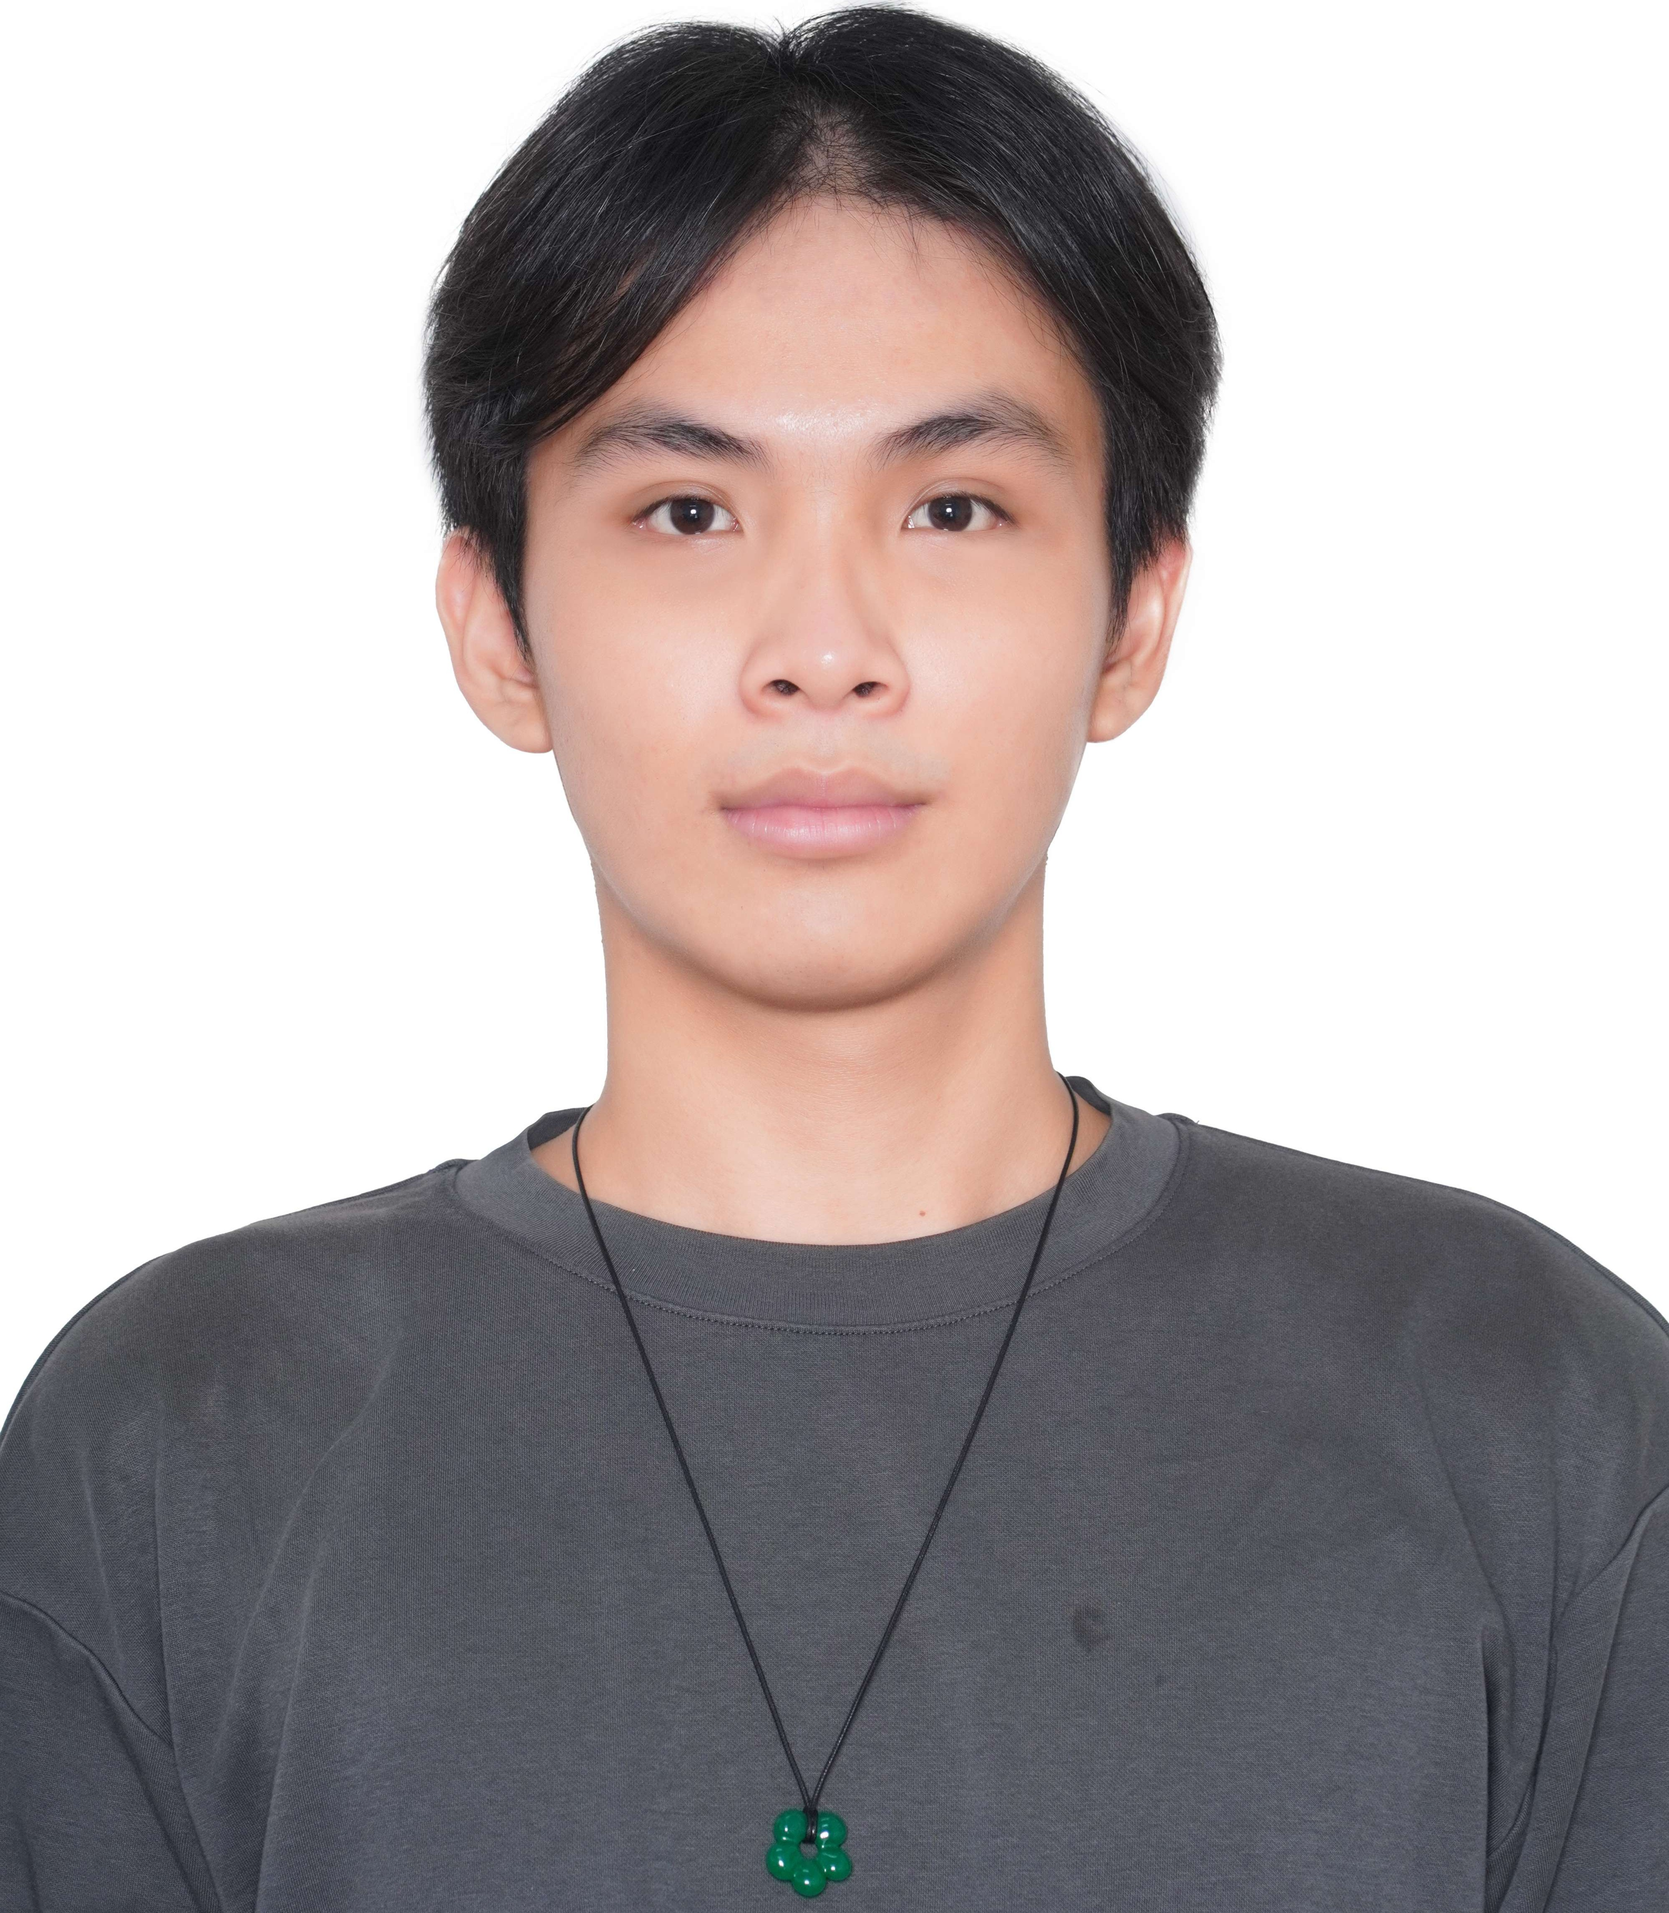
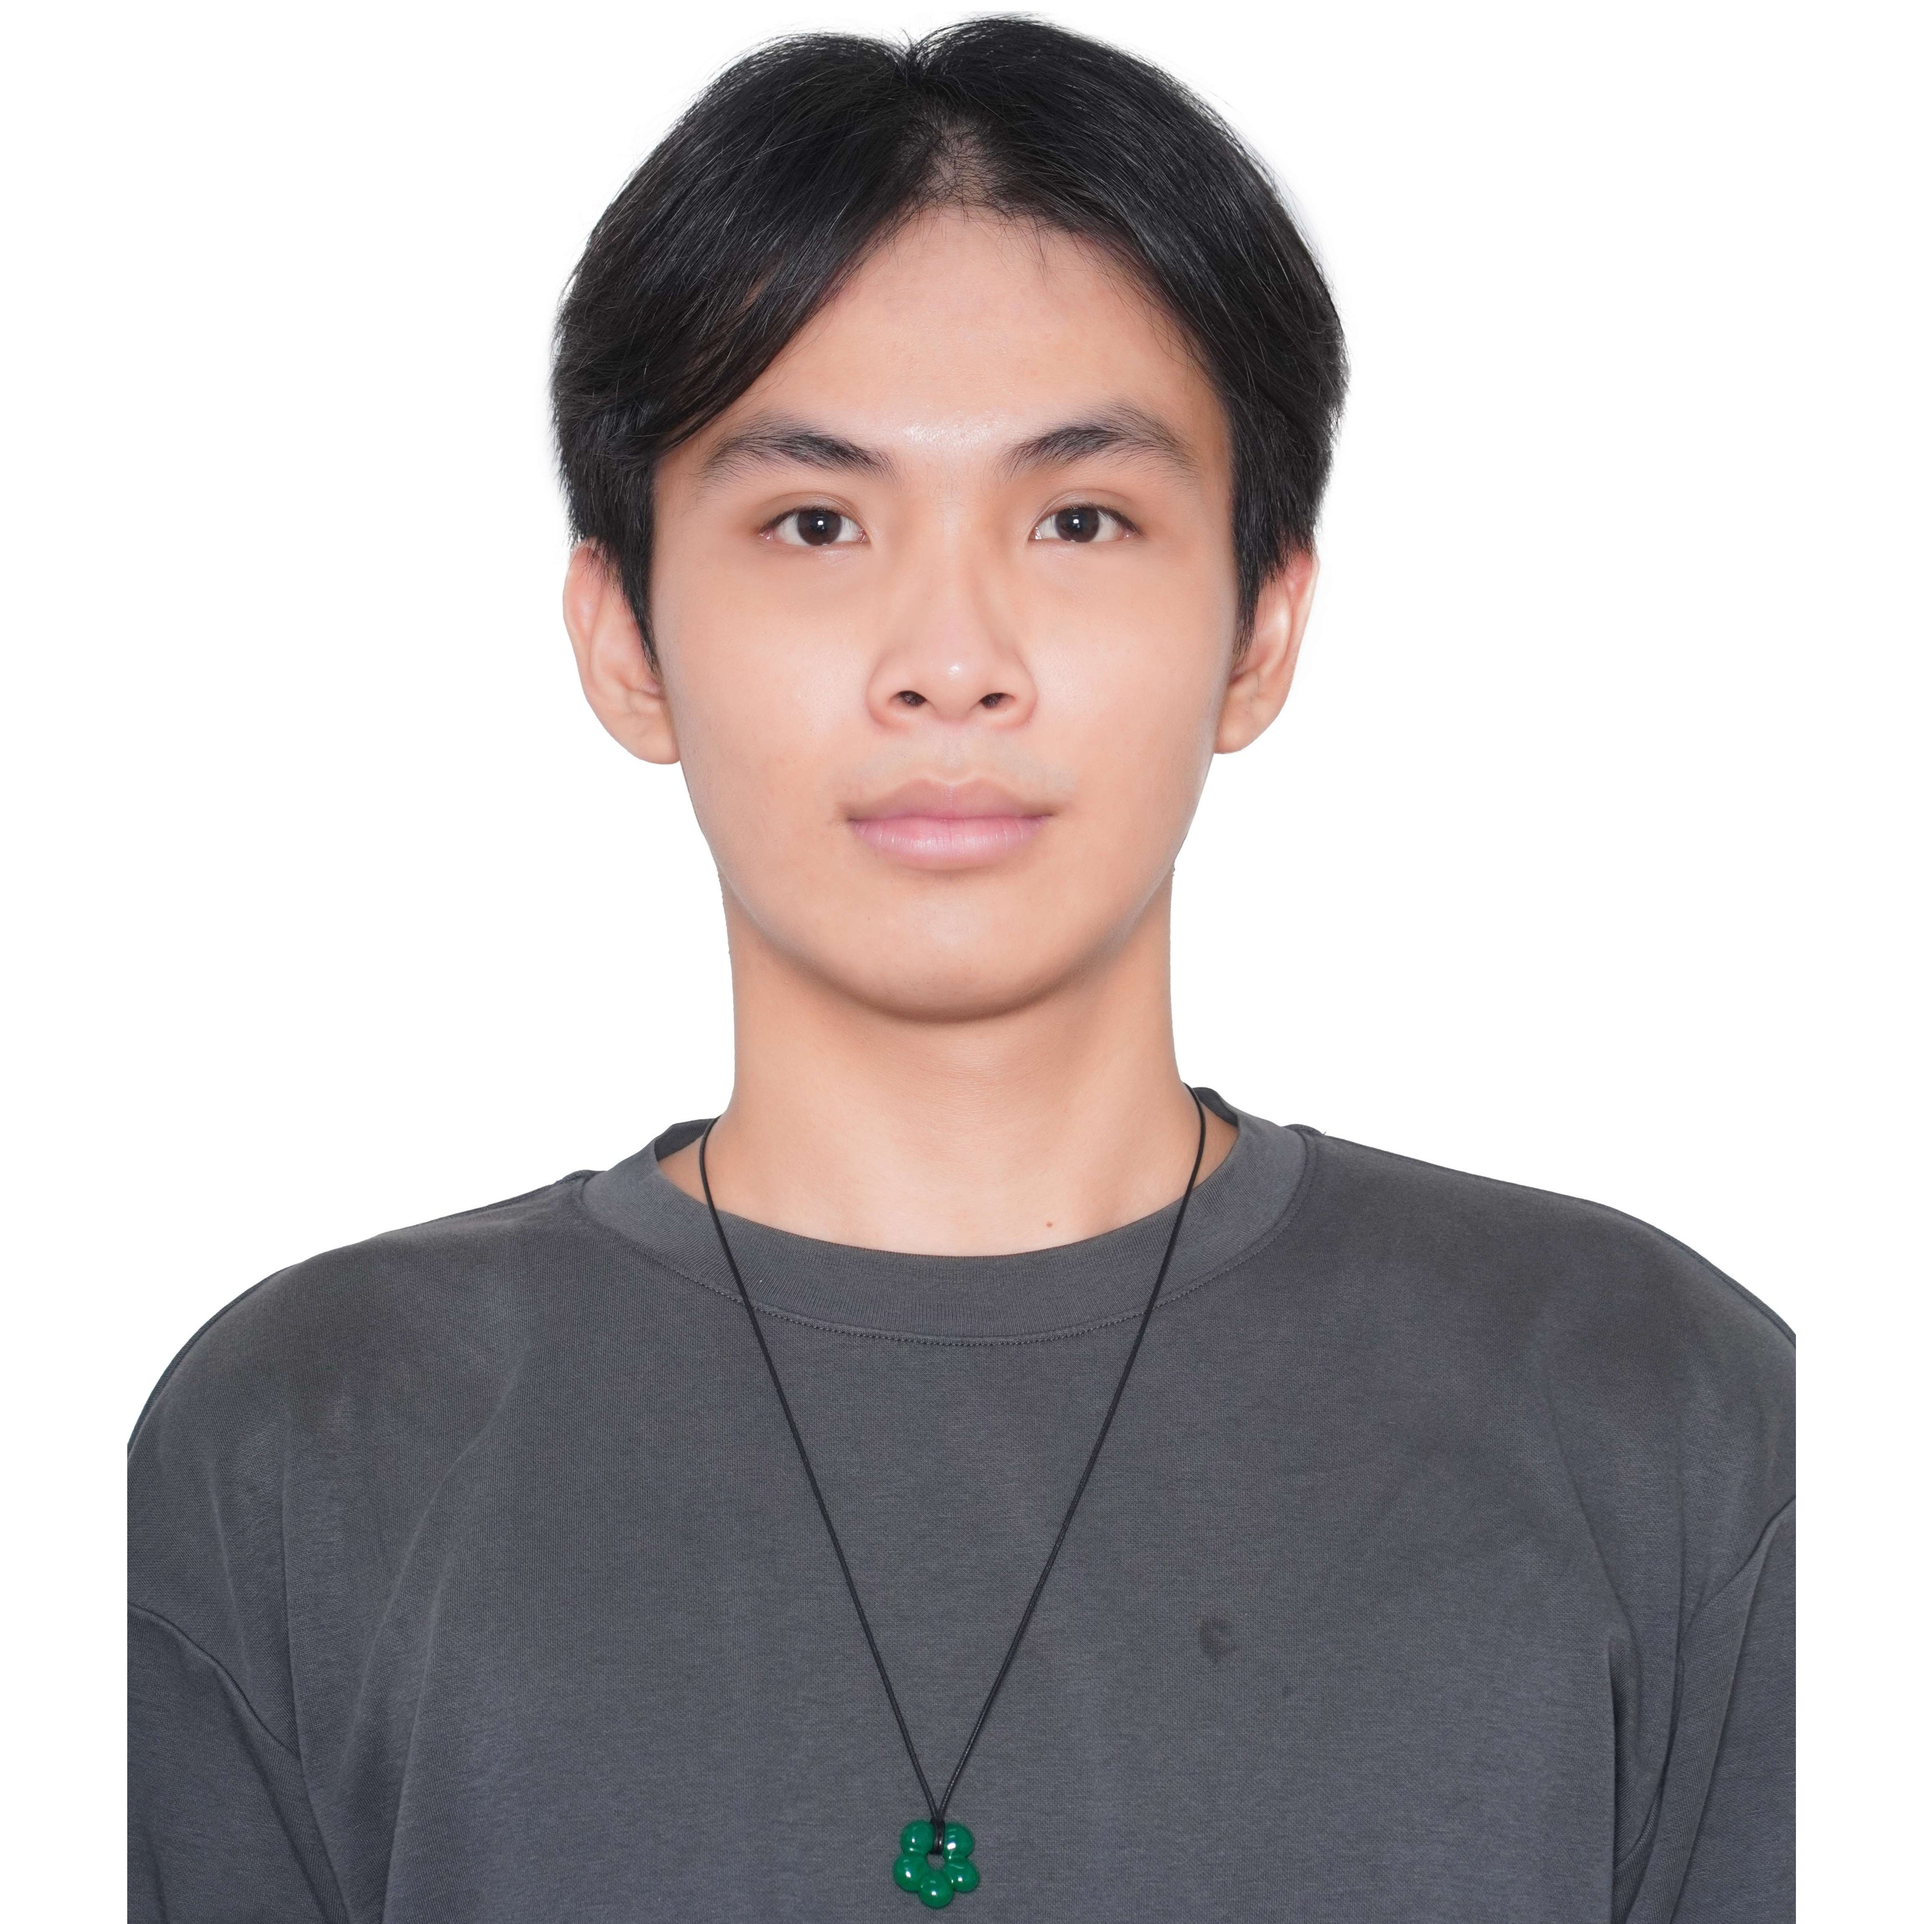
[feat] add NhanVo page and making some changes on Khoa & Tri images

diff --git a/src/profiles/NhanVo.html b/src/profiles/NhanVo.html
@@ -3,7 +3,7 @@
 <head>
     <meta charset="UTF-8">
     <meta name="viewport" content="width=device-width, initial-scale=1.0">
-    <title>Michael Brown - Project Manager</title>
+    <title>Huỳnh Đăng Khoa - Team Member</title>
     <link rel="stylesheet" href="../css/style.css">
     <link rel="stylesheet" href="https://cdnjs.cloudflare.com/ajax/libs/font-awesome/6.0.0-beta3/css/all.min.css">
 </head>
@@ -21,12 +21,53 @@
     <main>
         <div class="content-section">
             <div class="profile-container">
-                <img src="https://placehold.co/250x250/2c3e50/ffffff?text=MB" alt="Profile image for Michael Brown" class="profile-pic">
+                <img src="../resources/images/NhanVo.jpg" alt="Profile image for Võ Thành Nhân" class="profile-pic">
+                
                 <div class="profile-details">
-                    <h1>Michael Brown</h1>
-                    <h2>Project Manager</h2>
-                    <p>Michael is the glue that holds our projects together. He ensures that our team works in harmony, our deadlines are met, and our clients are happy. His organizational skills are second to none, and he excels at navigating the complexities of any project, big or small.</p>
-                    <p>Outside the office, Michael is a long-distance runner and enjoys coaching his kid's soccer team on weekends.</p>
+                    <h1>Võ Thành Nhân</h1>
+                    <h2>Role: Developer</h2>
+                    
+                    <div class="profile-info-list">
+                        <span>
+                            <i class="fa-solid fa-id-card"></i> 23127533
+                        </span>
+                        <span>
+                            <i class="fa-solid fa-envelope"></i> vtnhan23@clc.fitus.edu.vn
+                        </span>
+                    </div>
+
+                    <div class="profile-links">
+                        <a href="https://github.com/vtnHAN-SOLO">
+                            <i class="fa-brands fa-github"></i> GitHub
+                        </a>
+                        <a href="https://www.facebook.com/nhan.vo.324265">
+                            <i class="fa-brands fa-facebook"></i> Facebook
+                        </a>
+                    </div>
+                    
+                    <div class="profile-bio">
+                        <h3>About Me</h3>
+                        <p>
+                            My name is Võ Thành Nhân. I'm 20 years old. My house is in the northeast section of Hồ Chí Minh city, and I am not married. 
+                            I am a student at HCMUS, and I get home every day by 9 PM at the latest. I don't smoke, but I occasionally drink.
+                            I'm in bed by 11 PM, and make sure I get eight hours of sleep, no matter what. After having a glass of warm milk and doing about twenty minutes of stretches before going to bed, 
+                            I usually have no problems sleeping until morning. I'm a backend engineer at heart, and my core focus is on optimization. I'm the person who digs into slow database queries,
+                            refactors code for better performance, and obsesses over resource management in services.
+                        </p>
+                        
+                        <h3>Personal Interests</h3>
+                        <p>
+                            I do enjoy reading mangas and watching animes.   
+                            These are my top 4 anime/manga series recommendation:
+                            <ul>
+                                <li>Jojo Bizzare Adventure - animes</li>
+                                <li>Hirayasumi - manga</li>
+                                <li>Yotsuba& - manga</li>
+                                <li>Haikyuu - anime</li>
+                            </ul>
+                        </p>
+                    </div>
+
                 </div>
             </div>
         </div>
@@ -37,4 +78,3 @@
     </footer>
 </body>
 </html>
-

diff --git a/index.html b/index.html
@@ -32,30 +32,6 @@
     <main class="carousel-wrapper">
       <div class="team-carousel">
 
-        <!-- Võ Thành Nhân -->
-        <a href="src//profiles/NhanVo.html" class="team-card">
-          <div class="card-header">
-            <img
-              src="https://placehold.co/400x200/29a8a6/ffffff?text=."
-              alt="Background pattern"
-              class="background"
-            />
-            <img
-              src="https://placehold.co/120x120/2c3e50/ffffff?text=MB"
-              alt="Profile image for Võ Thành Nhân"
-              class="profile-image"
-            />
-          </div>
-          <div class="card-body">
-            <h3 class="member-name">Võ Thành Nhân</h3>
-            <p class="member-title">Project Manager</p>
-            <p class="member-desc">
-              Michael is the glue that holds our projects together, ensuring
-              deadlines are met and clients are happy.
-            </p>
-          </div>
-        </a>
-
         <!-- Huỳnh Đăng Khoa -->
         <a href="src/profiles/KhoaHuynh.html" class="team-card">
           <div class="card-header">
@@ -79,7 +55,7 @@
             </p>
           </div>
         </a>
-        
+
         <!-- Trần Thanh Trí -->
         <a href="src/profiles/TriTran.html" class="team-card">
           <div class="card-header">
@@ -95,7 +71,7 @@
             />
           </div>
             <div class="card-body">
-            <h3 class="member-name">>Trần Thanh Trí</h3>
+            <h3 class="member-name">Trần Thanh Trí</h3>
             <p class="member-title">Developer</p>
             <p class="member-desc">
               Thanh Trí is the bridge between design and functionality, driven
@@ -119,10 +95,35 @@
             <h3 class="member-name">Trần Phạm Trọng Nhân</h3>
             <p class="member-title">Developer</p>
             <p class="member-desc">
-              Nhan is a third-year student at Ho Chi Minh University of Science, passionate about web development and continuous learning.
+              Nhân is a third-year student at Ho Chi Minh University of Science, passionate about web development and continuous learning.
             </p>
           </div>
         </a>
+
+        <!-- Võ Thành Nhân -->
+        <a href="src/profiles/NhanVo.html" class="team-card">
+          <div class="card-header">
+            <img
+              src="https://placehold.co/400x200/4776E6/ffffff?text=."
+              class="background"
+              alt="Background pattern"
+            />
+            <img
+              src="src/resources/images/NhanVo.jpg"
+              class="profile-image"
+              alt="Profile image for Huỳnh Đăng Khoa"
+            />
+          </div>
+          <div class="card-body">
+            <h3 class="member-name">Võ Thành Nhân</h3>
+            <p class="member-title">Developer</p>
+            <p class="member-desc">
+              I'm a backend developer and a complete Spring Boot evangelist.  
+              If Spring AI, Spring Cloud, or a new AWS module drops, I'm already prototyping with it.
+            </p>
+          </div>
+        </a>
+
       </div>
     </main>
 
